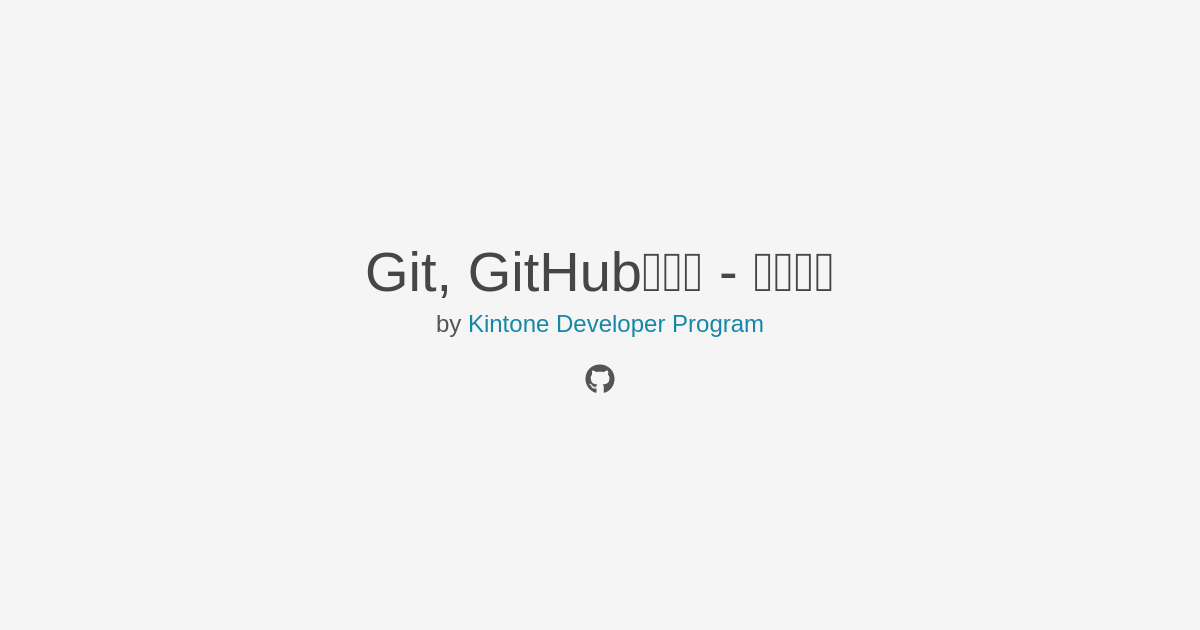
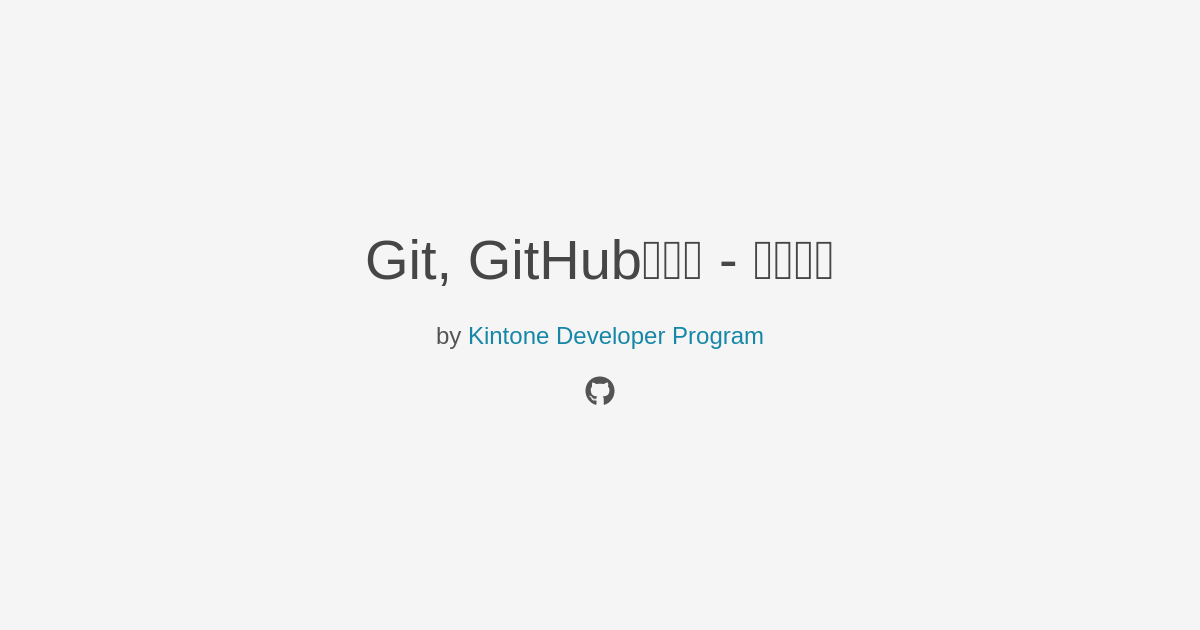
deploy: 6b93091313852d314daffa0f624d4058a2cb7a71

Changed region(s): [[0.3083, 0.3619, 0.6475, 0.573], [0.6475, 0.3619, 0.6783, 0.4825], [0.4625, 0.573, 0.5242, 0.6333]]

diff --git a/index.html b/index.html
@@ -1,2 +1,2 @@
-<!DOCTYPE html><html lang="en"><head><meta http-equiv="Content-type" content="text/html; charset=utf-8"><meta name="viewport" content="width=device-width,initial-scale=1"><title>Intro to Git &amp; Github</title><meta property="og:title" content="Intro to Git &amp; Github"><meta property="og:type" content="article"><meta property="og:url" content="https://ahandsel.github.io/Git_GitHub_Intro/"><meta property="og:image" content="https://ahandsel.github.io/Git_GitHub_Intro/thumbnail.png"><script defer="defer" src="/Git_GitHub_Intro/runtime.8847fa624f8f2f49addb.bundle.js"></script><script defer="defer" src="/Git_GitHub_Intro/vendor.3184de202aa171be5dbf.bundle.js"></script><script defer="defer" src="/Git_GitHub_Intro/main.4afeb2b0c9fb4631139b.bundle.js"></script><link href="/Git_GitHub_Intro/vendor.3184de202aa171be5dbf.css" rel="stylesheet"><link href="/Git_GitHub_Intro/main.4afeb2b0c9fb4631139b.css" rel="stylesheet"><link rel="prefetch" as="script" href="/Git_GitHub_Intro/921.ad0ac5afe6e277243d86.bundle.js"></head><body><div id="root"><div class="swiper-container swiper-container-initialized swiper-container-horizontal swiper-container-pointer-events" id="main-slides"><div class="swiper-pagination"></div><div class="swiper-wrapper" id="swiper-wrapper-15cde6af1ec98339" aria-live="polite" style="transform: translate3d(0px, 0px, 0px);"><div class="swiper-slide swiper-slide-active" data-hash="slide-1" role="group" aria-label="1 / 5" style="width: 1200px;"><div class="slide-internal-box"><h1>Git, GitHubとは？ - 準備手順</h1><p>by <a href="https://developer.kintone.io/hc/en-us/">Kintone Developer Program</a></p><br><div class="grid sns-box"><a href="https://github.com/ahandsel" class="account account-github" aria-label="account-github"><svg stroke="currentColor" fill="currentColor" stroke-width="0" viewBox="0 0 496 512" height="1em" width="1em" xmlns="http://www.w3.org/2000/svg"><path d="M165.9 397.4c0 2-2.3 3.6-5.2 3.6-3.3.3-5.6-1.3-5.6-3.6 0-2 2.3-3.6 5.2-3.6 3-.3 5.6 1.3 5.6 3.6zm-31.1-4.5c-.7 2 1.3 4.3 4.3 4.9 2.6 1 5.6 0 6.2-2s-1.3-4.3-4.3-5.2c-2.6-.7-5.5.3-6.2 2.3zm44.2-1.7c-2.9.7-4.9 2.6-4.6 4.9.3 2 2.9 3.3 5.9 2.6 2.9-.7 4.9-2.6 4.6-4.6-.3-1.9-3-3.2-5.9-2.9zM244.8 8C106.1 8 0 113.3 0 252c0 110.9 69.8 205.8 169.5 239.2 12.8 2.3 17.3-5.6 17.3-12.1 0-6.2-.3-40.4-.3-61.4 0 0-70 15-84.7-29.8 0 0-11.4-29.1-27.8-36.6 0 0-22.9-15.7 1.6-15.4 0 0 24.9 2 38.6 25.8 21.9 38.6 58.6 27.5 72.9 20.9 2.3-16 8.8-27.1 16-33.7-55.9-6.2-112.3-14.3-112.3-110.5 0-27.5 7.6-41.3 23.6-58.9-2.6-6.5-11.1-33.3 2.6-67.9 20.9-6.5 69 27 69 27 20-5.6 41.5-8.5 62.8-8.5s42.8 2.9 62.8 8.5c0 0 48.1-33.6 69-27 13.7 34.7 5.2 61.4 2.6 67.9 16 17.7 25.8 31.5 25.8 58.9 0 96.5-58.9 104.2-114.8 110.5 9.2 7.9 17 22.9 17 46.4 0 33.7-.3 75.4-.3 83.6 0 6.5 4.6 14.4 17.3 12.1C428.2 457.8 496 362.9 496 252 496 113.3 383.5 8 244.8 8zM97.2 352.9c-1.3 1-1 3.3.7 5.2 1.6 1.6 3.9 2.3 5.2 1 1.3-1 1-3.3-.7-5.2-1.6-1.6-3.9-2.3-5.2-1zm-10.8-8.1c-.7 1.3.3 2.9 2.3 3.9 1.6 1 3.6.7 4.3-.7.7-1.3-.3-2.9-2.3-3.9-2-.6-3.6-.3-4.3.7zm32.4 35.6c-1.6 1.3-1 4.3 1.3 6.2 2.3 2.3 5.2 2.6 6.5 1 1.3-1.3.7-4.3-1.3-6.2-2.2-2.3-5.2-2.6-6.5-1zm-11.4-14.7c-1.6 1-1.6 3.6 0 5.9 1.6 2.3 4.3 3.3 5.6 2.3 1.6-1.3 1.6-3.9 0-6.2-1.4-2.3-4-3.3-5.6-2z"></path></svg></a></div></div></div><div class="swiper-slide swiper-slide-next" data-hash="slide-2" role="group" aria-label="2 / 5" style="width: 1200px;"><div class="slide-internal-box"><h2>Overview</h2><h3>コンテンツの目的</h3><p>SC本部メンバーが。。。</p><ol><li>Git と GitHub について理解できた</li><li>GitHub でコードを管理できるようになった</li></ol><h3>概要</h3><div class="grid"><div class="column"><h4>Gitの基本</h4><img src="/Git_GitHub_Intro/2788c8d91503b5b19168.webp"></div><div class="column"><h4>GitHubの基本</h4><img src="/Git_GitHub_Intro/d6f440da388f239be469.webp"></div><div class="column"><h4>ハンズオン</h4><ul><li>Gitをインストールする</li><li>GitHubアカウントを作成する</li><li>リポジトリを作成する</li></ul></div></div></div></div><div class="swiper-slide" data-hash="slide-3" role="group" aria-label="3 / 5" style="width: 1200px;"><div class="slide-internal-box"><h2>GitHubアカウント</h2><h3>GitHubアカウントを作成する</h3><p><a href="https://github.com/join">github.com/join</a><br>
-<img src="/Git_GitHub_Intro/4d1b3abb82ba42cfa7db.webp" alt="GitHub Join Screenshot"></p></div></div><div class="swiper-slide" data-hash="slide-4" role="group" aria-label="4 / 5" style="width: 1200px;"><div class="slide-internal-box"><h3>2要素認証を設定する</h3><ol><li>GitHub設定画面に移動します: <a href="https://github.com/settings/security">github.com/settings/security</a><ul><li><code>Two-factor authentication</code> (2要素認証) の下で<code>Enable two-factor authentication</code> (2要素認証の有効化) をクリックしてください。</li><li><code>Two-factor authentication</code> のページで、<code>Set up using an app</code> をクリックします。</li></ul></li><li>Authenticator Appを作成する<ul><li>提案: <a href="https://www.microsoft.com/en-us/account/authenticator">Microsoft</a>, <a href="https://authy.com/guides/github/">Authy</a>, <a href="https://www.enpass.io/">Enpass</a></li></ul></li></ol><h4>Resources</h4><ul><li><a href="https://help.github.com/ja/github/authenticating-to-github/configuring-two-factor-authentication">2 要素認証を設定する - GitHub help doc</a></li><li>YouTube: <a href="https://youtu.be/5DKqXeorDHY">How to setup 2FA with GitHub</a></li></ul></div></div><div class="swiper-slide" data-hash="slide-5" role="group" aria-label="5 / 5" style="width: 1200px;"><div class="slide-internal-box"><h2></h2></div></div></div><span class="swiper-notification" aria-live="assertive" aria-atomic="true"></span></div></div></body></html>
+<!DOCTYPE html><html lang="en"><head><meta http-equiv="Content-type" content="text/html; charset=utf-8"><meta name="viewport" content="width=device-width,initial-scale=1"><title>Intro to Git &amp; Github</title><meta property="og:title" content="Intro to Git &amp; Github"><meta property="og:type" content="article"><meta property="og:url" content="https://ahandsel.github.io/Git_GitHub_Intro/"><meta property="og:image" content="https://ahandsel.github.io/Git_GitHub_Intro/thumbnail.png"><script defer="defer" src="/Git_GitHub_Intro/runtime.7b8edf7ff0a1644f261b.bundle.js"></script><script defer="defer" src="/Git_GitHub_Intro/vendor.3184de202aa171be5dbf.bundle.js"></script><script defer="defer" src="/Git_GitHub_Intro/main.6dc1d567fc1a24d6e765.bundle.js"></script><link href="/Git_GitHub_Intro/vendor.3184de202aa171be5dbf.css" rel="stylesheet"><link href="/Git_GitHub_Intro/main.6dc1d567fc1a24d6e765.css" rel="stylesheet"><link rel="prefetch" as="script" href="/Git_GitHub_Intro/921.ad0ac5afe6e277243d86.bundle.js"></head><body><div id="root"><div class="swiper-container swiper-container-initialized swiper-container-horizontal swiper-container-pointer-events" id="main-slides"><div class="swiper-pagination"></div><div class="swiper-wrapper" id="swiper-wrapper-7a7bd4eb162afa59" aria-live="polite" style="transform: translate3d(0px, 0px, 0px);"><div class="swiper-slide title swiper-slide-active" data-hash="slide-1" role="group" aria-label="1 / 5" style="width: 1184px;"><div class="slide-internal-box"><h1>Git, GitHubとは？ - 準備手順</h1><br><p>by <a href="https://developer.kintone.io/hc/en-us/">Kintone Developer Program</a></p><br><div class="grid sns-box"><a href="https://github.com/ahandsel" class="account account-github" aria-label="account-github"><svg stroke="currentColor" fill="currentColor" stroke-width="0" viewBox="0 0 496 512" height="1em" width="1em" xmlns="http://www.w3.org/2000/svg"><path d="M165.9 397.4c0 2-2.3 3.6-5.2 3.6-3.3.3-5.6-1.3-5.6-3.6 0-2 2.3-3.6 5.2-3.6 3-.3 5.6 1.3 5.6 3.6zm-31.1-4.5c-.7 2 1.3 4.3 4.3 4.9 2.6 1 5.6 0 6.2-2s-1.3-4.3-4.3-5.2c-2.6-.7-5.5.3-6.2 2.3zm44.2-1.7c-2.9.7-4.9 2.6-4.6 4.9.3 2 2.9 3.3 5.9 2.6 2.9-.7 4.9-2.6 4.6-4.6-.3-1.9-3-3.2-5.9-2.9zM244.8 8C106.1 8 0 113.3 0 252c0 110.9 69.8 205.8 169.5 239.2 12.8 2.3 17.3-5.6 17.3-12.1 0-6.2-.3-40.4-.3-61.4 0 0-70 15-84.7-29.8 0 0-11.4-29.1-27.8-36.6 0 0-22.9-15.7 1.6-15.4 0 0 24.9 2 38.6 25.8 21.9 38.6 58.6 27.5 72.9 20.9 2.3-16 8.8-27.1 16-33.7-55.9-6.2-112.3-14.3-112.3-110.5 0-27.5 7.6-41.3 23.6-58.9-2.6-6.5-11.1-33.3 2.6-67.9 20.9-6.5 69 27 69 27 20-5.6 41.5-8.5 62.8-8.5s42.8 2.9 62.8 8.5c0 0 48.1-33.6 69-27 13.7 34.7 5.2 61.4 2.6 67.9 16 17.7 25.8 31.5 25.8 58.9 0 96.5-58.9 104.2-114.8 110.5 9.2 7.9 17 22.9 17 46.4 0 33.7-.3 75.4-.3 83.6 0 6.5 4.6 14.4 17.3 12.1C428.2 457.8 496 362.9 496 252 496 113.3 383.5 8 244.8 8zM97.2 352.9c-1.3 1-1 3.3.7 5.2 1.6 1.6 3.9 2.3 5.2 1 1.3-1 1-3.3-.7-5.2-1.6-1.6-3.9-2.3-5.2-1zm-10.8-8.1c-.7 1.3.3 2.9 2.3 3.9 1.6 1 3.6.7 4.3-.7.7-1.3-.3-2.9-2.3-3.9-2-.6-3.6-.3-4.3.7zm32.4 35.6c-1.6 1.3-1 4.3 1.3 6.2 2.3 2.3 5.2 2.6 6.5 1 1.3-1.3.7-4.3-1.3-6.2-2.2-2.3-5.2-2.6-6.5-1zm-11.4-14.7c-1.6 1-1.6 3.6 0 5.9 1.6 2.3 4.3 3.3 5.6 2.3 1.6-1.3 1.6-3.9 0-6.2-1.4-2.3-4-3.3-5.6-2z"></path></svg></a></div></div></div><div class="swiper-slide swiper-slide-next" data-hash="slide-2" role="group" aria-label="2 / 5" style="width: 1184px;"><div class="slide-internal-box"><h2>Overview</h2><h3>コンテンツの目的</h3><p>SC本部メンバーが。。。</p><ol><li>Git と GitHub について理解できた</li><li>GitHub でコードを管理できるようになった</li></ol><h3>概要</h3><div class="grid"><div class="column"><h4>Gitの基本</h4><p><a href="https://git-scm.com/"><img src="/Git_GitHub_Intro/2788c8d91503b5b19168.webp" alt="Git_Logo"></a></p></div><div class="column"><h4>GitHubの基本</h4><p><a href="https://github.com/"><img src="/Git_GitHub_Intro/d6f440da388f239be469.webp" alt="GitHub_CatLogo"></a></p></div><div class="column"><h4>ハンズオン</h4><ul><li>Gitをインストールする</li><li>GitHubアカウントを作成する</li><li>リポジトリを作成する</li></ul></div></div></div></div><div class="swiper-slide" data-hash="slide-3" role="group" aria-label="3 / 5" style="width: 1184px;"><div class="slide-internal-box"><h2>GitHubアカウント</h2><h3>GitHubアカウントを作成する</h3><p><a href="https://github.com/join">github.com/join</a><br>
+<a href="https://github.com/join"><img src="/Git_GitHub_Intro/4d1b3abb82ba42cfa7db.webp" alt="GitHub Join Screenshot"></a></p></div></div><div class="swiper-slide" data-hash="slide-4" role="group" aria-label="4 / 5" style="width: 1184px;"><div class="slide-internal-box"><h3>2要素認証を設定する</h3><ol><li>GitHub設定画面に移動します: <a href="https://github.com/settings/security">github.com/settings/security</a><ul><li><code>Two-factor authentication</code> (2要素認証) の下で<code>Enable two-factor authentication</code> (2要素認証の有効化) をクリックしてください。</li><li><code>Two-factor authentication</code> のページで、<code>Set up using an app</code> をクリックします。</li></ul></li><li>Authenticator Appを作成する<ul><li>提案: <a href="https://www.microsoft.com/en-us/account/authenticator">Microsoft</a>, <a href="https://authy.com/guides/github/">Authy</a>, <a href="https://www.enpass.io/">Enpass</a></li></ul></li></ol><h4>Resources</h4><ul><li>GitHub help doc: <a href="https://help.github.com/ja/github/authenticating-to-github/configuring-two-factor-authentication">2 要素認証を設定する</a></li><li>YouTube: <a href="https://youtu.be/5DKqXeorDHY">How to setup 2FA with GitHub</a></li></ul></div></div><div class="swiper-slide" data-hash="slide-5" role="group" aria-label="5 / 5" style="width: 1184px;"><div class="slide-internal-box"><h2>Panda</h2></div></div></div><span class="swiper-notification" aria-live="assertive" aria-atomic="true"></span></div></div></body></html>

diff --git a/main.6dc1d567fc1a24d6e765.bundle.js b/main.6dc1d567fc1a24d6e765.bundle.js
@@ -1,0 +1,1 @@
+(self.webpackChunk=self.webpackChunk||[]).push([[179],{7879:(t,e,a)=>{"use strict";a.r(e),a.d(e,{slides:()=>r,backgrounds:()=>o,fragmentSteps:()=>p,fusumaProps:()=>k,default:()=>s});var n=a(7401),l=a(9332),i=(a(108),a(6465));function u(){return(u=Object.assign||function(t){for(var e=1;e<arguments.length;e++){var a=arguments[e];for(var n in a)Object.prototype.hasOwnProperty.call(a,n)&&(t[n]=a[n])}return t}).apply(this,arguments)}const r=[t=>(0,l.kt)(n.Fragment,null,(0,l.kt)("h1",null,"Git, GitHubとは？ - 準備手順"),(0,l.kt)("br",null),(0,l.kt)("p",null,"by ",(0,l.kt)("a",{parentName:"p",href:"https://developer.kintone.io/hc/en-us/"},"Kintone Developer Program")),(0,l.kt)("br",null),(0,l.kt)("div",{className:"grid sns-box"},(0,l.kt)("a",{href:"https://github.com/ahandsel",className:"account account-github","aria-label":"account-github"},(0,l.kt)(i.hJX,null)))),t=>(0,l.kt)(n.Fragment,null,(0,l.kt)("h2",null,"Overview"),(0,l.kt)("h3",null,"コンテンツの目的"),(0,l.kt)("p",null,"SC本部メンバーが。。。"),(0,l.kt)("ol",null,(0,l.kt)("li",{parentName:"ol"},"Git と GitHub について理解できた"),(0,l.kt)("li",{parentName:"ol"},"GitHub でコードを管理できるようになった")),(0,l.kt)("h3",null,"概要"),(0,l.kt)("div",{className:"grid"},(0,l.kt)("div",{className:"column"},(0,l.kt)("h4",null,"Gitの基本"),(0,l.kt)("p",null,(0,l.kt)("a",{parentName:"p",href:"https://git-scm.com/"},(0,l.kt)("img",{src:a(7691),alt:"Git_Logo"})))),(0,l.kt)("div",{className:"column"},(0,l.kt)("h4",null,"GitHubの基本"),(0,l.kt)("p",null,(0,l.kt)("a",{parentName:"p",href:"https://github.com/"},(0,l.kt)("img",{src:a(1375),alt:"GitHub_CatLogo"})))),(0,l.kt)("div",{className:"column"},(0,l.kt)("h4",null,"ハンズオン"),(0,l.kt)("ul",null,(0,l.kt)("li",{parentName:"ul"},"Gitをインストールする"),(0,l.kt)("li",{parentName:"ul"},"GitHubアカウントを作成する"),(0,l.kt)("li",{parentName:"ul"},"リポジトリを作成する"))))),t=>(0,l.kt)(n.Fragment,null,(0,l.kt)("h2",null,"GitHubアカウント"),(0,l.kt)("h3",null,"GitHubアカウントを作成する"),(0,l.kt)("p",null,(0,l.kt)("a",{parentName:"p",href:"https://github.com/join"},"github.com/join"),(0,l.kt)("br",{parentName:"p"}),"\n",(0,l.kt)("a",{parentName:"p",href:"https://github.com/join"},(0,l.kt)("img",{src:a(6602),alt:"GitHub Join Screenshot"})))),t=>(0,l.kt)(n.Fragment,null,(0,l.kt)("h3",null,"2要素認証を設定する"),(0,l.kt)("ol",null,(0,l.kt)("li",{parentName:"ol"},"GitHub設定画面に移動します: ",(0,l.kt)("a",{parentName:"li",href:"https://github.com/settings/security"},"github.com/settings/security"),(0,l.kt)("ul",{parentName:"li"},(0,l.kt)("li",{parentName:"ul"},(0,l.kt)("inlineCode",{parentName:"li"},"Two-factor authentication")," (2要素認証) の下で",(0,l.kt)("inlineCode",{parentName:"li"},"Enable two-factor authentication")," (2要素認証の有効化) をクリックしてください。"),(0,l.kt)("li",{parentName:"ul"},(0,l.kt)("inlineCode",{parentName:"li"},"Two-factor authentication")," のページで、",(0,l.kt)("inlineCode",{parentName:"li"},"Set up using an app")," をクリックします。"))),(0,l.kt)("li",{parentName:"ol"},"Authenticator Appを作成する",(0,l.kt)("ul",{parentName:"li"},(0,l.kt)("li",{parentName:"ul"},"提案: ",(0,l.kt)("a",{parentName:"li",href:"https://www.microsoft.com/en-us/account/authenticator"},"Microsoft"),", ",(0,l.kt)("a",{parentName:"li",href:"https://authy.com/guides/github/"},"Authy"),", ",(0,l.kt)("a",{parentName:"li",href:"https://www.enpass.io/"},"Enpass"))))),(0,l.kt)("h4",null,"Resources"),(0,l.kt)("ul",null,(0,l.kt)("li",{parentName:"ul"},"GitHub help doc: ",(0,l.kt)("a",{parentName:"li",href:"https://help.github.com/ja/github/authenticating-to-github/configuring-two-factor-authentication"},"2 要素認証を設定する")),(0,l.kt)("li",{parentName:"ul"},"YouTube: ",(0,l.kt)("a",{parentName:"li",href:"https://youtu.be/5DKqXeorDHY"},"How to setup 2FA with GitHub")))),t=>(0,l.kt)(n.Fragment,null,(0,l.kt)("h2",null,"Panda"))],o=[0,0,0,0,0],p=[0,0,0,0,0],k=[{classes:"title"},{},{},{},{}],h={};function s({components:t,...e}){return(0,l.kt)("wrapper",u({},h,e,{components:t,mdxType:"MDXLayout"}),(0,l.kt)("h1",null,"Git, GitHubとは？ - 準備手順"),(0,l.kt)("br",null),(0,l.kt)("p",null,"by ",(0,l.kt)("a",{parentName:"p",href:"https://developer.kintone.io/hc/en-us/"},"Kintone Developer Program")),(0,l.kt)("br",null),(0,l.kt)("hr",null),(0,l.kt)("h2",null,"Overview"),(0,l.kt)("h3",null,"コンテンツの目的"),(0,l.kt)("p",null,"SC本部メンバーが。。。"),(0,l.kt)("ol",null,(0,l.kt)("li",{parentName:"ol"},"Git と GitHub について理解できた"),(0,l.kt)("li",{parentName:"ol"},"GitHub でコードを管理できるようになった")),(0,l.kt)("h3",null,"概要"),(0,l.kt)("h4",null,"Gitの基本"),(0,l.kt)("p",null,(0,l.kt)("a",{parentName:"p",href:"https://git-scm.com/"},(0,l.kt)("img",{src:a(7691),alt:"Git_Logo"}))),(0,l.kt)("h4",null,"GitHubの基本"),(0,l.kt)("p",null,(0,l.kt)("a",{parentName:"p",href:"https://github.com/"},(0,l.kt)("img",{src:a(1375),alt:"GitHub_CatLogo"}))),(0,l.kt)("h4",null,"ハンズオン"),(0,l.kt)("ul",null,(0,l.kt)("li",{parentName:"ul"},"Gitをインストールする"),(0,l.kt)("li",{parentName:"ul"},"GitHubアカウントを作成する"),(0,l.kt)("li",{parentName:"ul"},"リポジトリを作成する")),(0,l.kt)("hr",null),(0,l.kt)("h2",null,"GitHubアカウント"),(0,l.kt)("h3",null,"GitHubアカウントを作成する"),(0,l.kt)("p",null,(0,l.kt)("a",{parentName:"p",href:"https://github.com/join"},"github.com/join"),(0,l.kt)("br",{parentName:"p"}),"\n",(0,l.kt)("a",{parentName:"p",href:"https://github.com/join"},(0,l.kt)("img",{src:a(6602),alt:"GitHub Join Screenshot"}))),(0,l.kt)("hr",null),(0,l.kt)("h3",null,"2要素認証を設定する"),(0,l.kt)("ol",null,(0,l.kt)("li",{parentName:"ol"},"GitHub設定画面に移動します: ",(0,l.kt)("a",{parentName:"li",href:"https://github.com/settings/security"},"github.com/settings/security"),(0,l.kt)("ul",{parentName:"li"},(0,l.kt)("li",{parentName:"ul"},(0,l.kt)("inlineCode",{parentName:"li"},"Two-factor authentication")," (2要素認証) の下で",(0,l.kt)("inlineCode",{parentName:"li"},"Enable two-factor authentication")," (2要素認証の有効化) をクリックしてください。"),(0,l.kt)("li",{parentName:"ul"},(0,l.kt)("inlineCode",{parentName:"li"},"Two-factor authentication")," のページで、",(0,l.kt)("inlineCode",{parentName:"li"},"Set up using an app")," をクリックします。"))),(0,l.kt)("li",{parentName:"ol"},"Authenticator Appを作成する",(0,l.kt)("ul",{parentName:"li"},(0,l.kt)("li",{parentName:"ul"},"提案: ",(0,l.kt)("a",{parentName:"li",href:"https://www.microsoft.com/en-us/account/authenticator"},"Microsoft"),", ",(0,l.kt)("a",{parentName:"li",href:"https://authy.com/guides/github/"},"Authy"),", ",(0,l.kt)("a",{parentName:"li",href:"https://www.enpass.io/"},"Enpass"))))),(0,l.kt)("h4",null,"Resources"),(0,l.kt)("ul",null,(0,l.kt)("li",{parentName:"ul"},"GitHub help doc: ",(0,l.kt)("a",{parentName:"li",href:"https://help.github.com/ja/github/authenticating-to-github/configuring-two-factor-authentication"},"2 要素認証を設定する")),(0,l.kt)("li",{parentName:"ul"},"YouTube: ",(0,l.kt)("a",{parentName:"li",href:"https://youtu.be/5DKqXeorDHY"},"How to setup 2FA with GitHub"))),(0,l.kt)("hr",null),(0,l.kt)("h2",null,"Panda"))}s.isMDXComponent=!0},5516:(t,e,a)=>{"use strict";a.r(e)},1375:(t,e,a)=>{"use strict";t.exports=a.p+"d6f440da388f239be469.webp"},6602:(t,e,a)=>{"use strict";t.exports=a.p+"4d1b3abb82ba42cfa7db.webp"},7691:(t,e,a)=>{"use strict";t.exports=a.p+"2788c8d91503b5b19168.webp"},3447:(t,e,a)=>{var n={"./0-slide.md":7879};function l(t){var e=i(t);return a(e)}function i(t){if(!a.o(n,t)){var e=new Error("Cannot find module '"+t+"'");throw e.code="MODULE_NOT_FOUND",e}return n[t]}l.keys=function(){return Object.keys(n)},l.resolve=i,t.exports=l,l.id=3447}},t=>{"use strict";t.O(0,[179],(()=>(t.E(921),t.E(626))),5);var e=e=>t(t.s=e);t.O(0,[736],(()=>(e(7751),e(6905),e(9969))));t.O()}]);

diff --git a/runtime.7b8edf7ff0a1644f261b.bundle.js b/runtime.7b8edf7ff0a1644f261b.bundle.js
@@ -1,0 +1,1 @@
+(()=>{"use strict";var e,t,r,n,o,a,i={},l={};function d(e){var t=l[e];if(void 0!==t)return t.exports;var r=l[e]={exports:{}};return i[e].call(r.exports,r,r.exports,d),r.exports}d.m=i,e=[],d.O=(t,r,n,o)=>{if(!r){var a=1/0;for(c=0;c<e.length;c++){for(var[r,n,o]=e[c],i=!0,l=0;l<r.length;l++)(!1&o||a>=o)&&Object.keys(d.O).every((e=>d.O[e](r[l])))?r.splice(l--,1):(i=!1,o<a&&(a=o));i&&(e.splice(c--,1),t=n())}return t}o=o||0;for(var c=e.length;c>0&&e[c-1][2]>o;c--)e[c]=e[c-1];e[c]=[r,n,o]},d.F={},d.E=e=>{Object.keys(d.F).map((t=>{d.F[t](e)}))},d.n=e=>{var t=e&&e.__esModule?()=>e.default:()=>e;return d.d(t,{a:t}),t},r=Object.getPrototypeOf?e=>Object.getPrototypeOf(e):e=>e.__proto__,d.t=function(e,n){if(1&n&&(e=this(e)),8&n)return e;if("object"==typeof e&&e){if(4&n&&e.__esModule)return e;if(16&n&&"function"==typeof e.then)return e}var o=Object.create(null);d.r(o);var a={};t=t||[null,r({}),r([]),r(r)];for(var i=2&n&&e;"object"==typeof i&&!~t.indexOf(i);i=r(i))Object.getOwnPropertyNames(i).forEach((t=>a[t]=()=>e[t]));return a.default=()=>e,d.d(o,a),o},d.d=(e,t)=>{for(var r in t)d.o(t,r)&&!d.o(e,r)&&Object.defineProperty(e,r,{enumerable:!0,get:t[r]})},d.f={},d.e=e=>Promise.all(Object.keys(d.f).reduce(((t,r)=>(d.f[r](e,t),t)),[])),d.u=e=>e+"."+{209:"f9a7f52239370cb401cf",352:"7f19842e49ca6b261cd4",568:"2dbd1a1f36e04bc1e356",582:"6a6b00bfe36595b0bbeb",626:"3f7d2cdc522a709688c3",846:"db333c14a55188442175",869:"6746d9310933fad4bb11",921:"ad0ac5afe6e277243d86"}[e]+".bundle.js",d.miniCssF=e=>(({179:"main",736:"vendor"}[e]||e)+"."+{179:"6dc1d567fc1a24d6e765",209:"f9a7f52239370cb401cf",352:"7f19842e49ca6b261cd4",626:"3f7d2cdc522a709688c3",736:"3184de202aa171be5dbf",846:"db333c14a55188442175"}[e]+".css"),d.g=function(){if("object"==typeof globalThis)return globalThis;try{return this||new Function("return this")()}catch(e){if("object"==typeof window)return window}}(),d.o=(e,t)=>Object.prototype.hasOwnProperty.call(e,t),n={},d.l=(e,t,r,o)=>{if(n[e])n[e].push(t);else{var a,i;if(void 0!==r)for(var l=document.getElementsByTagName("script"),c=0;c<l.length;c++){var f=l[c];if(f.getAttribute("src")==e){a=f;break}}a||(i=!0,(a=document.createElement("script")).charset="utf-8",a.timeout=120,d.nc&&a.setAttribute("nonce",d.nc),a.src=e),n[e]=[t];var u=(t,r)=>{a.onerror=a.onload=null,clearTimeout(s);var o=n[e];if(delete n[e],a.parentNode&&a.parentNode.removeChild(a),o&&o.forEach((e=>e(r))),t)return t(r)},s=setTimeout(u.bind(null,void 0,{type:"timeout",target:a}),12e4);a.onerror=u.bind(null,a.onerror),a.onload=u.bind(null,a.onload),i&&document.head.appendChild(a)}},d.r=e=>{"undefined"!=typeof Symbol&&Symbol.toStringTag&&Object.defineProperty(e,Symbol.toStringTag,{value:"Module"}),Object.defineProperty(e,"__esModule",{value:!0})},d.p="/Git_GitHub_Intro/",o=e=>new Promise(((t,r)=>{var n=d.miniCssF(e),o=d.p+n;if(((e,t)=>{for(var r=document.getElementsByTagName("link"),n=0;n<r.length;n++){var o=(i=r[n]).getAttribute("data-href")||i.getAttribute("href");if("stylesheet"===i.rel&&(o===e||o===t))return i}var a=document.getElementsByTagName("style");for(n=0;n<a.length;n++){var i;if((o=(i=a[n]).getAttribute("data-href"))===e||o===t)return i}})(n,o))return t();((e,t,r,n)=>{var o=document.createElement("link");o.rel="stylesheet",o.type="text/css",o.onerror=o.onload=a=>{if(o.onerror=o.onload=null,"load"===a.type)r();else{var i=a&&("load"===a.type?"missing":a.type),l=a&&a.target&&a.target.href||t,d=new Error("Loading CSS chunk "+e+" failed.\n("+l+")");d.code="CSS_CHUNK_LOAD_FAILED",d.type=i,d.request=l,o.parentNode.removeChild(o),n(d)}},o.href=t,document.head.appendChild(o)})(e,o,t,r)})),a={666:0},d.f.miniCss=(e,t)=>{a[e]?t.push(a[e]):0!==a[e]&&{209:1,352:1,626:1,846:1}[e]&&t.push(a[e]=o(e).then((()=>{a[e]=0}),(t=>{throw delete a[e],t})))},(()=>{var e={666:0};d.f.j=(t,r)=>{var n=d.o(e,t)?e[t]:void 0;if(0!==n)if(n)r.push(n[2]);else if(/^(209|626|666)$/.test(t))e[t]=0;else{var o=new Promise(((r,o)=>n=e[t]=[r,o]));r.push(n[2]=o);var a=d.p+d.u(t),i=new Error;d.l(a,(r=>{if(d.o(e,t)&&(0!==(n=e[t])&&(e[t]=void 0),n)){var o=r&&("load"===r.type?"missing":r.type),a=r&&r.target&&r.target.src;i.message="Loading chunk "+t+" failed.\n("+o+": "+a+")",i.name="ChunkLoadError",i.type=o,i.request=a,n[1](i)}}),"chunk-"+t,t)}},d.F.j=t=>{if(!(d.o(e,t)&&void 0!==e[t]||/^(209|626|666)$/.test(t))){e[t]=null;var r=document.createElement("link");d.nc&&r.setAttribute("nonce",d.nc),r.rel="prefetch",r.as="script",r.href=d.p+d.u(t),document.head.appendChild(r)}},d.O.j=t=>0===e[t];var t=(t,r)=>{var n,o,[a,i,l]=r,c=0;for(n in i)d.o(i,n)&&(d.m[n]=i[n]);if(l)var f=l(d);for(t&&t(r);c<a.length;c++)o=a[c],d.o(e,o)&&e[o]&&e[o][0](),e[a[c]]=0;return d.O(f)},r=self.webpackChunk=self.webpackChunk||[];r.forEach(t.bind(null,0)),r.push=t.bind(null,r.push.bind(r))})()})();
